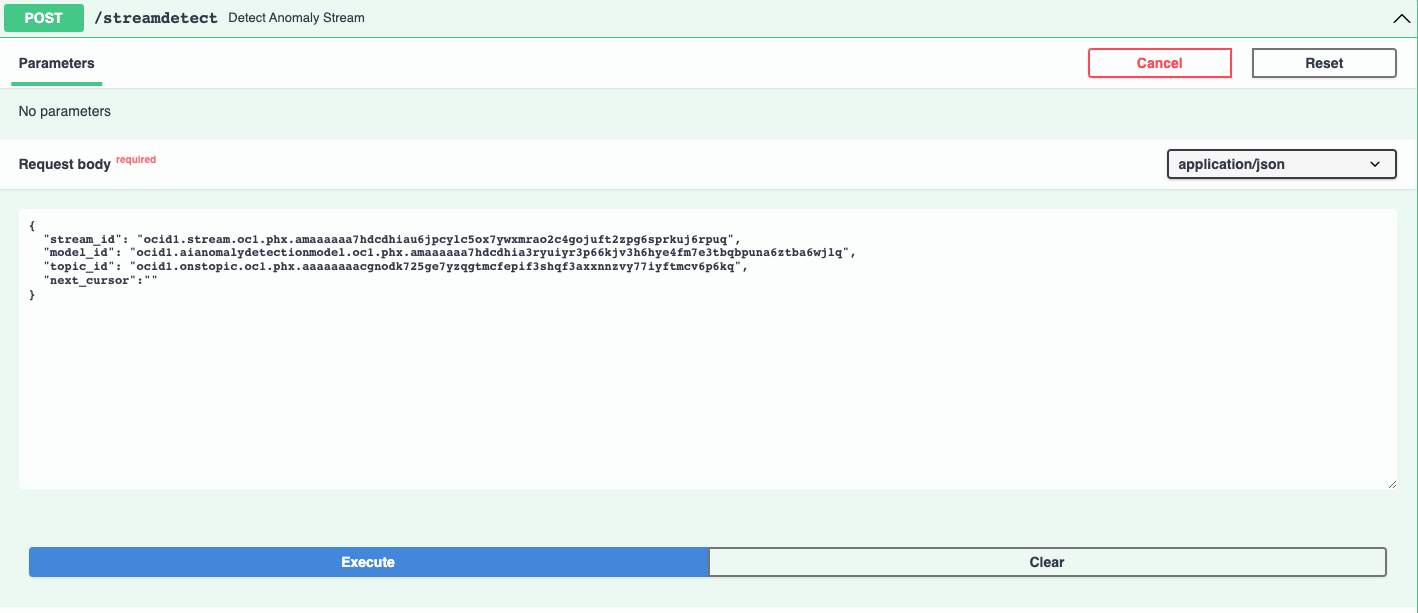
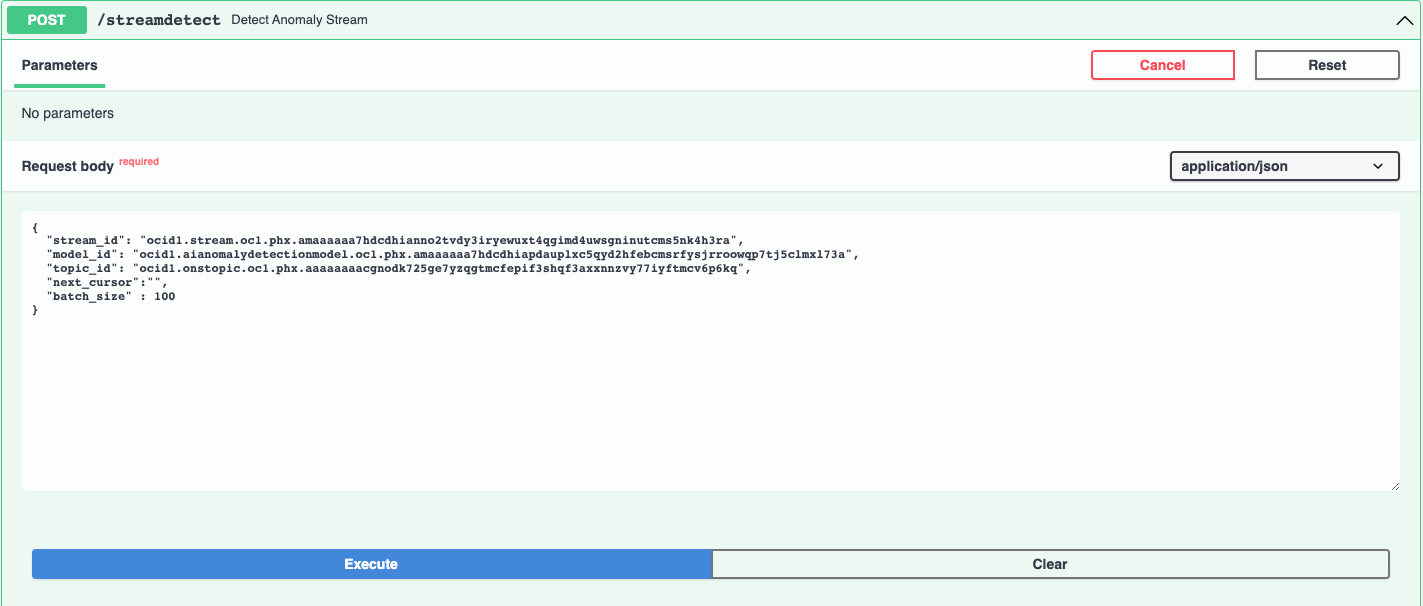
Modify authors, monitoring image

diff --git a/digital-twin/04-monitor-assets/monitor-assets.md b/digital-twin/04-monitor-assets/monitor-assets.md
@@ -31,7 +31,7 @@ After using the normal data trained the model. We change specific parameters for
 
 Input an instance ID, e.g. 1
 Paste the copied OCID to stream_id field.
-Input the steps that we like to try and debug. A sample of the payload is given.
+Input the steps that we like to try and debug. A sample of the payload is given. The steps parameter directs the digital twin when to generate an anamly and put the rusults in the streaming service.
 
 ~~~
 {
@@ -39,13 +39,13 @@ Input the steps that we like to try and debug. A sample of the payload is given.
   "inp_value": 0.8,
   "out_name": "BOOM_CYL_POS_OUT",
   "out_value": 0.8,
-"params": {
-"payload": 681,
-"pumpEfficiency": 0.91
-},
-"steps": {
-"2.2": {"cBoomCyl":8788,"TcBoom":1001},
-"3.8": {"cBoomCyl":18788,"TcBoom":101}
+  "params": {
+    "payload": 681,
+    "pumpEfficiency": 0.91
+  },
+  "steps": {
+    "1.2": {"cBoomCyl":87880,"TcBoom":101},
+    "3.8": {"cBoomCyl":18788,"TcBoom":1001}
 }
 }
 
@@ -103,7 +103,8 @@ The API requires stream_id, model_id and topic_id. The next_cursor provides a ma
   "stream_id": "ocid1.stream.oc1.phx.amaaaaaa7hdcdhiau6jpcylc5ox7ywxmrao2c4gojuft2zpg6sprkuj6rpuq",
   "model_id": "ocid1.aianomalydetectionmodel.oc1.phx.amaaaaaa7hdcdhia3ryuiyr3p66kjv3h6hye4fm7e3tbqbpuna6ztba6wjlq",
   "topic_id": "ocid1.onstopic.oc1.phx.aaaaaaaacgnodk725ge7yzqgtmcfepif3shqf3axxnnzvy77iyftmcv6p6kq",
-  "next_cursor":""
+  "next_cursor":"",
+  "batch_size" : 100
 }
 ~~~
 ![!Detect Anomaly](./images/detect-anomaly.png)
@@ -112,7 +113,7 @@ Click the Execute to detect whether there are anomalies.
 
 ![!Detect Anomaly Result](./images/detect-anomaly-res.png)
 
-The retuned next_cursor will be used in the next run to retrieve signals from the stream.
+The retuned next_cursor will be used in the next run to retrieve signals from the stream. The batch_size is used to show how many messages you like to retrieve from streaming service. As we move the curson along the stream, we always use next_cursor returned back after a successful execuction. In the lab, we purposly designed it run this way to understand how all the system service runing behined scene. In real use case, this is an automatic process and the operator get notified once an anomaly is detected.
 
 4. Once a anomaly detected. An email will send to the designated email configured by the operation. The notification will show exactactly why the anomaly service reported the warning. Then, the operation can further diagnose the root cause.
 
@@ -167,3 +168,14 @@ Let's take a look what anomalies Anomaly Detection discovered in the data
 >- The Aggregated Anomaly Score indicates the significance of anomaly for a given timestamp by considering the anomaly from all signals together.
 >
 >You can move your mouse over the graph, the actual value & estimated value at a certain timestamp will show at the upper right corner of the graph.
+
+## Acknowledgements
+
+- **Authors**
+      - Tony Zhang - Master Principal Cloud Architect 
+      
+- **Contributors** 
+      - Jiayuan Yang - Senior Cloud Engineer 
+      - Samuel Cacela, Staff Cloud Engineer
+      - Adrian Alba - Staff Cloud Engineer
+- **Last Updated By/Date** - 2022 October

diff --git a/digital-twin/deploy-digitaltwin-simulation/deploy-digitaltwin-simulation.md b/digital-twin/deploy-digitaltwin-simulation/deploy-digitaltwin-simulation.md
@@ -33,7 +33,7 @@ OCI Cloud Shell is a web browser-based terminal accessible from the Oracle Cloud
 
 ## Task 2: Deploy the service to OKE
 
-1. Copy the deployment file for your Kubernetes cluster configuration, which can be accessed [here](https://github.com/tonyora/oci/blob/main/digital-twin/02-deploy-digitaltwin-simulation/file/digitaltwin.yaml).
+1. Copy the deployment file for your Kubernetes cluster configuration, which can be accessed [here](https://objectstorage.us-phoenix-1.oraclecloud.com/p/y6hR92uVv6ejfNClhLM4wm0rftcHOasu_u9twwSl0T-XxQpS8zfB62XJyhMQAXRE/n/axvpeemzqcaf/b/cw-file/o/deployment.yaml). By click the link, the file will be downloaded to your local drive.
 
 	Open the file and copy the content:
 
@@ -83,7 +83,7 @@ We will create a fleet of digital twins in this task to generate training data t
 
 	```
 	{
-	"number_instance": 10,
+	"number_instance": 20,
 	"fleet_model": "linux_fmus/Telehandler.fmu"
 	}
 	```
@@ -130,4 +130,4 @@ You many now **proceed to the next lab.**
       - Tony Zhang - Master Principal Cloud Architect  
 - **Contributors** 
       - Jiayuan Yang - Senior Cloud Engineer
-- **Last Updated By/Date** - September, 2022
+- **Last Updated By/Date** - October, 2022

diff --git a/digital-twin/02-deploy-digitaltwin-simulation/deploy-digitaltwin-simulation.md b/digital-twin/02-deploy-digitaltwin-simulation/deploy-digitaltwin-simulation.md
@@ -115,3 +115,13 @@ We also can type bucket in the search bar to open object storage service. Then c
 
 ![!Training Dataset](./images/training-bucket.png)
 
+## Acknowledgements
+
+- **Authors**
+      - Tony Zhang - Master Principal Cloud Architect 
+      
+- **Contributors** 
+      - Jiayuan Yang - Senior Cloud Engineer 
+      - Samuel Cacela, Staff Cloud Engineer
+      - Adrian Alba - Staff Cloud Engineer
+- **Last Updated By/Date** - 2022 October
